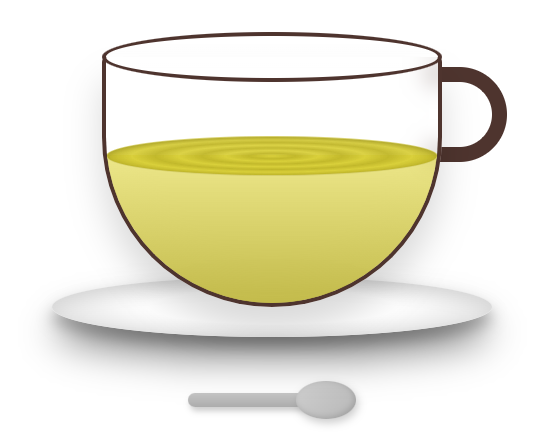
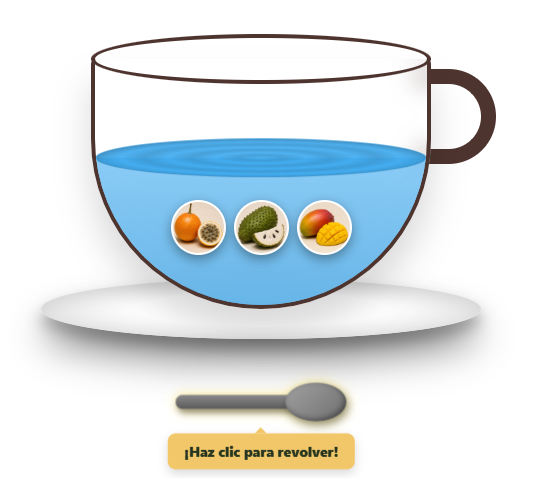
V21

diff --git a/FRONTEND/src/app/pages/mix-creation/components/mix-creation/mix-creation.component.css b/FRONTEND/src/app/pages/mix-creation/components/mix-creation/mix-creation.component.css
@@ -99,6 +99,7 @@ h1 {
   flex-direction: column;
   position: relative;
   overflow: hidden; /* Fix horizontal scroll on mobile */
+  container-type: inline-size;
 }
 
 .section-heading {
@@ -216,6 +217,7 @@ h1 {
   margin-top: 2.5rem; /* Ajuste para bajar un poco más la taza y cuchara */
   perspective: 1000px;
   transform-origin: center center; /* Scale to center to avoid layout gaps */
+  transition: transform 0.5s cubic-bezier(0.25, 1, 0.5, 1);
 }
 
 .cup-assembly {
@@ -362,15 +364,15 @@ h1 {
   z-index: 2;
 }
 
-/* Liquid changes to clean yellow when stirring or mixed */
+/* Liquid changes to clean yellow-orange when stirring or mixed */
 .is-stirring .cup-liquid::after,
 .is-mixed .cup-liquid::after {
-  background-color: rgba(245, 205, 30, 0.8);
+  background-color: rgba(255, 170, 30, 0.8);
 }
 
 .is-stirring .cup-liquid::before,
 .is-mixed .cup-liquid::before {
-  background-color: rgba(245, 205, 30, 0.9);
+  background-color: rgba(255, 170, 30, 0.9);
 }
 
 /* Animación de líquido revolviéndose como remolino real */
@@ -627,16 +629,51 @@ h1 {
   display: flex;
   justify-content: center;
   align-items: center; /* Vertically center the cup to lower it naturally */
+  transition: height 0.5s cubic-bezier(0.25, 1, 0.5, 1), min-height 0.5s cubic-bezier(0.25, 1, 0.5, 1);
+}
+
+/* Container queries para escalar la taza de acuerdo al ancho disponible (sidebar abierto, etc) */
+@container (max-width: 520px) {
+  .cup-scale-container {
+    min-height: auto;
+    height: 380px;
+  }
+  .cup-wrapper {
+    transform: scale(0.90);
+  }
+}
+
+@container (max-width: 460px) {
+  .cup-scale-container {
+    min-height: auto;
+    height: 340px;
+  }
+  .cup-wrapper {
+    transform: scale(0.80);
+  }
+}
+
+@container (max-width: 400px) {
+  .cup-scale-container {
+    min-height: auto;
+    height: 290px;
+  }
+  .cup-wrapper {
+    transform: scale(0.68);
+  }
+}
+
+@container (max-width: 320px) {
+  .cup-scale-container {
+    min-height: auto;
+    height: 240px;
+  }
+  .cup-wrapper {
+    transform: scale(0.55);
+  }
 }
 
 @media (max-width: 768px) {
-  .cup-scale-container {
-    min-height: auto;
-    height: 350px; /* Match visual scaled height */
-  }
-  .cup-wrapper {
-    transform: scale(0.85);
-  }
   h1 {
     font-size: 2.2rem;
   }
@@ -645,23 +682,6 @@ h1 {
 @media (max-width: 560px) {
   .fruit-gallery-grid {
     grid-template-columns: repeat(3, minmax(0, 1fr));
-  }
-  .cup-scale-container {
-    min-height: auto;
-    height: 290px; /* Match visual scaled height */
-  }
-  .cup-wrapper {
-    transform: scale(0.70);
-  }
-}
-
-@media (max-width: 450px) {
-  .cup-scale-container {
-    min-height: auto;
-    height: 230px; /* Match visual scaled height */
-  }
-  .cup-wrapper {
-    transform: scale(0.55);
   }
 }
 
